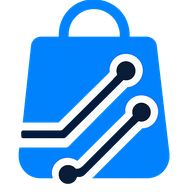
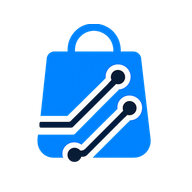
fix

diff --git a/src/app/(dashboard)/sales/page.tsx b/src/app/(dashboard)/sales/page.tsx
@@ -1,6 +1,6 @@
 'use client';
 
-import { useState, useEffect } from 'react';
+import { useState, useEffect, useMemo } from 'react';
 import { useQuery } from '@tanstack/react-query';
 import { Search, Barcode, FileText, ShoppingCart } from 'lucide-react';
 import { toast } from 'react-hot-toast';
@@ -22,6 +22,41 @@ import { handleNumberInputChange, isValidId } from '@/lib/utils-clean';
 import { useDeviceStore } from '@/store/device-store';
 import type { Product } from '@/types';
 import { parseScaleBarcode } from '@/lib/scale-barcode';
+import { useUIStore } from '@/store/ui-store';
+
+const isValidHex = (hex: string | null | undefined) => {
+  if (!hex) return false;
+  return /^#?[0-9A-Fa-f]{6}$/.test(hex);
+};
+
+const normalizeHex = (hex: string | null | undefined, fallback = '#6366F1') => {
+  if (!isValidHex(hex)) return fallback;
+  return hex!.startsWith('#') ? hex! : `#${hex}`;
+};
+
+const adjustHexBrightness = (hex: string, amount: number) => {
+  const normalized = normalizeHex(hex);
+  const cleanHex = normalized.replace('#', '');
+
+  const clamp = (value: number) => Math.max(0, Math.min(255, value));
+  const channels = [
+    clamp(parseInt(cleanHex.substring(0, 2), 16) + amount),
+    clamp(parseInt(cleanHex.substring(2, 4), 16) + amount),
+    clamp(parseInt(cleanHex.substring(4, 6), 16) + amount),
+  ];
+
+  const toHex = (value: number) => value.toString(16).padStart(2, '0');
+  return `#${channels.map(toHex).join('')}`;
+};
+
+const hexToRgba = (hex: string, alpha: number) => {
+  const normalized = normalizeHex(hex);
+  const cleanHex = normalized.replace('#', '');
+  const r = parseInt(cleanHex.substring(0, 2), 16);
+  const g = parseInt(cleanHex.substring(2, 4), 16);
+  const b = parseInt(cleanHex.substring(4, 6), 16);
+  return `rgba(${r}, ${g}, ${b}, ${alpha})`;
+};
 
 export default function SalesPage() {
   const { api, user } = useAuth();
@@ -32,6 +67,17 @@ export default function SalesPage() {
   const [mobileCartOpen, setMobileCartOpen] = useState(false);
   const { addItem, items } = useCartStore();
   const [lastScanned, setLastScanned] = useState(0);
+  const companyColor = useUIStore((state) => state.companyColor);
+  const brandColor = useMemo(() => normalizeHex(companyColor), [companyColor]);
+  const gradientStart = useMemo(() => brandColor, [brandColor]);
+  const gradientEnd = useMemo(() => adjustHexBrightness(brandColor, 40), [brandColor]);
+  const buttonShadow = useMemo(() => hexToRgba(brandColor, 0.45), [brandColor]);
+  const buttonOutline = useMemo(() => hexToRgba(brandColor, 0.2), [brandColor]);
+  const badgeTextColor = useMemo(() => adjustHexBrightness(brandColor, -30), [brandColor]);
+  const badgeShadow = useMemo(() => hexToRgba(brandColor, 0.35), [brandColor]);
+  const headerBorder = useMemo(() => hexToRgba(brandColor, 0.2), [brandColor]);
+  const headerShadow = useMemo(() => hexToRgba(brandColor, 0.45), [brandColor]);
+  const headerIconBg = useMemo(() => hexToRgba(brandColor, 0.25), [brandColor]);
   
   // Device status from store
   const { 
@@ -342,7 +388,13 @@ export default function SalesPage() {
       <div className="pointer-events-none md:hidden fixed bottom-6 right-4 left-4 z-40 flex justify-end">
         <div className="pointer-events-auto relative">
           {!mobileCartOpen && (
-            <div className="absolute -top-10 right-1/2 translate-x-1/2 rounded-full bg-slate-900/90 px-3 py-1 text-xs font-medium text-white shadow-lg shadow-purple-500/30">
+            <div
+              className="absolute -top-10 right-1/2 translate-x-1/2 rounded-full px-3 py-1 text-xs font-medium text-white"
+              style={{
+                background: `linear-gradient(135deg, ${gradientStart}, ${gradientEnd})`,
+                boxShadow: `0 12px 25px ${buttonShadow}`,
+              }}
+            >
               Carrinho ({items.length})
             </div>
           )}
@@ -351,12 +403,28 @@ export default function SalesPage() {
             onClick={() => setMobileCartOpen(true)}
             aria-label="Abrir carrinho"
             aria-expanded={mobileCartOpen}
-            className="group flex items-center gap-2 rounded-full bg-gradient-to-r from-indigo-500 via-purple-500 to-pink-500 px-5 py-3 text-white shadow-lg shadow-purple-500/40 transition-all hover:shadow-purple-500/60 focus:outline-none focus:ring-4 focus:ring-purple-400/40"
+            className="group flex items-center gap-2 rounded-full px-5 py-3 text-white transition-all focus:outline-none"
+            style={{
+              background: `linear-gradient(135deg, ${gradientStart}, ${gradientEnd})`,
+              boxShadow: `0 18px 38px ${buttonShadow}, 0 0 0 4px ${buttonOutline}`,
+            }}
           >
-            <div className="relative flex h-10 w-10 items-center justify-center rounded-full bg-white/15 shadow-inner shadow-purple-400/40">
+            <div
+              className="relative flex h-10 w-10 items-center justify-center rounded-full shadow-inner transition-all duration-300 group-hover:scale-105"
+              style={{
+                backgroundColor: hexToRgba('#ffffff', 0.18),
+                boxShadow: `inset 0 4px 8px ${hexToRgba('#000000', 0.08)}`,
+              }}
+            >
               <ShoppingCart className="h-5 w-5 transition-transform duration-300 group-hover:scale-110" />
               {items.length > 0 && (
-                <span className="absolute -top-1 -right-1 flex h-5 min-w-[1.25rem] items-center justify-center rounded-full bg-white text-xs font-semibold text-purple-600 shadow-md">
+                <span
+                  className="absolute -top-1 -right-1 flex h-5 min-w-[1.25rem] items-center justify-center rounded-full bg-white text-xs font-semibold"
+                  style={{
+                    color: badgeTextColor,
+                    boxShadow: `0 4px 10px ${badgeShadow}`,
+                  }}
+                >
                   {items.length}
                 </span>
               )}
@@ -390,9 +458,26 @@ export default function SalesPage() {
       {/* Mobile Cart Dialog */}
       <Dialog open={mobileCartOpen} onOpenChange={setMobileCartOpen}>
         <DialogContent className="md:hidden top-auto bottom-6 left-1/2 translate-y-0 translate-x-[-50%] w-[min(100vw-2rem,420px)] max-h-[85vh] border-0 bg-transparent p-0 shadow-none">
-          <div className="relative overflow-hidden rounded-3xl border border-purple-500/20 bg-background/95 shadow-[0_25px_60px_rgba(124,58,237,0.45)] backdrop-blur-xl">
-            <div className="flex items-center gap-3 border-b border-white/5 bg-gradient-to-r from-indigo-500 via-purple-500 to-pink-500 px-4 py-3 text-white">
-              <div className="flex h-11 w-11 items-center justify-center rounded-full bg-white/20 shadow-lg shadow-purple-500/40">
+          <div
+            className="relative overflow-hidden rounded-3xl border bg-background/95 backdrop-blur-xl"
+            style={{
+              borderColor: headerBorder,
+              boxShadow: `0 25px 60px ${headerShadow}`,
+            }}
+          >
+            <div
+              className="flex items-center gap-3 border-b border-white/5 px-4 py-3 text-white"
+              style={{
+                background: `linear-gradient(135deg, ${gradientStart}, ${gradientEnd})`,
+              }}
+            >
+              <div
+                className="flex h-11 w-11 items-center justify-center rounded-full shadow-lg"
+                style={{
+                  backgroundColor: headerIconBg,
+                  boxShadow: `0 10px 25px ${headerShadow}`,
+                }}
+              >
                 <ShoppingCart className="h-5 w-5" />
               </div>
               <div className="flex flex-col">

diff --git a/src/store/ui-store.ts b/src/store/ui-store.ts
@@ -1,6 +1,26 @@
 import { create } from 'zustand';
 import { applyCompanyColor } from '@/lib/colorUtils';
 
+const DEFAULT_THEME_COLOR = '#3B82F6';
+const HEX_COLOR_REGEX = /^#(?:[0-9A-Fa-f]{3}){1,2}$/;
+
+function normalizeHexColor(color: string | null): string {
+  if (!color) {
+    return DEFAULT_THEME_COLOR;
+  }
+
+  const trimmed = color.trim();
+  if (!HEX_COLOR_REGEX.test(trimmed)) {
+    return DEFAULT_THEME_COLOR;
+  }
+
+  if (trimmed.length === 4) {
+    return `#${trimmed[1]}${trimmed[1]}${trimmed[2]}${trimmed[2]}${trimmed[3]}${trimmed[3]}`.toUpperCase();
+  }
+
+  return trimmed.toUpperCase();
+}
+
 interface UIState {
   sidebarOpen: boolean;
   sidebarCollapsed: boolean;
@@ -70,6 +90,7 @@ export const useUIStore = create<UIState>((set, get) => ({
     if (typeof window !== 'undefined') {
       const { companyColor } = get();
       const primaryColor = applyCompanyColor(companyColor);
+      const themeColor = normalizeHexColor(companyColor);
       
       // Atualiza a variável CSS --primary
       document.documentElement.style.setProperty('--primary', primaryColor);
@@ -90,6 +111,19 @@ export const useUIStore = create<UIState>((set, get) => ({
         // Cor padrão para hover (azul mais escuro)
         document.documentElement.style.setProperty('--scrollbar-color-hover', '221.2 83.2% 45%');
       }
+
+      const ensureMetaTag = (name: string) => {
+        let metaTag = document.querySelector(`meta[name="${name}"]`) as HTMLMetaElement | null;
+        if (!metaTag) {
+          metaTag = document.createElement('meta');
+          metaTag.setAttribute('name', name);
+          document.head.appendChild(metaTag);
+        }
+        return metaTag;
+      };
+
+      ensureMetaTag('theme-color').setAttribute('content', themeColor);
+      ensureMetaTag('msapplication-TileColor').setAttribute('content', themeColor);
     }
   },
 }));

diff --git a/create-icons.js b/create-icons.js
@@ -19,6 +19,9 @@ function createSimpleIcon(size, filename) {
 }
 
 // Função para criar ícone do logo
+const ICON_SCALE = 0.75;
+const TRANSPARENT_BG = { r: 255, g: 255, b: 255, alpha: 0 };
+
 async function createIconFromLogo(size, filename) {
   try {
     const logoPath = path.join(__dirname, 'public', 'logo.png');
@@ -32,11 +35,23 @@ async function createIconFromLogo(size, filename) {
     }
 
     // Carregar e redimensionar o logo usando Sharp
-    await sharp(logoPath)
-      .resize(size, size, {
+    const resizedLogo = await sharp(logoPath)
+      .resize(Math.round(size * ICON_SCALE), Math.round(size * ICON_SCALE), {
         fit: 'contain',
-        background: { r: 255, g: 255, b: 255, alpha: 0 } // Fundo transparente
+        background: TRANSPARENT_BG
       })
+      .png()
+      .toBuffer();
+
+    await sharp({
+      create: {
+        width: size,
+        height: size,
+        channels: 4,
+        background: TRANSPARENT_BG
+      }
+    })
+      .composite([{ input: resizedLogo, gravity: 'center' }])
       .png()
       .toFile(outputPath);
     

diff --git a/src/components/sales-history/sale-details-dialog.tsx b/src/components/sales-history/sale-details-dialog.tsx
@@ -6,7 +6,7 @@ import { useQuery } from '@tanstack/react-query';
 import { Printer, Repeat, AlertTriangle } from 'lucide-react';
 import { toast } from 'react-hot-toast';
 import { useAuth } from '@/hooks/useAuth';
-import { Dialog, DialogContent, DialogHeader, DialogTitle } from '@/components/ui/dialog';
+import { Dialog, DialogContent, DialogHeader, DialogTitle, DialogDescription } from '@/components/ui/dialog';
 import { Button } from '@/components/ui/button';
 import { Badge } from '@/components/ui/badge';
 import { Skeleton } from '@/components/ui/skeleton';
@@ -128,6 +128,9 @@ export function SaleDetailsDialog({ open, onClose, saleId }: SaleDetailsDialogPr
       <DialogContent className="max-w-2xl max-h-[90vh] overflow-y-auto">
         <DialogHeader>
           <DialogTitle>Detalhes da Venda</DialogTitle>
+          <DialogDescription className="sr-only">
+            Informações completas da venda selecionada
+          </DialogDescription>
         </DialogHeader>
 
         {isLoading ? (

diff --git a/src/app/layout.tsx b/src/app/layout.tsx
@@ -10,6 +10,7 @@ export const metadata: Metadata = {
   title: 'MontShop',
   description: 'Sistema de gerenciamento de lojas completo',
   manifest: '/manifest.json',
+  themeColor: '#3B82F6',
   icons: {
     icon: [
       { url: '/logo.png', type: 'image/png' },
